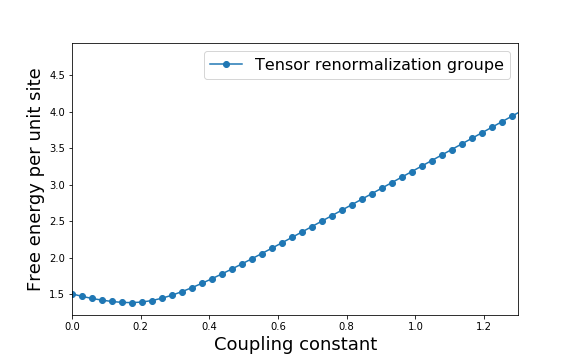
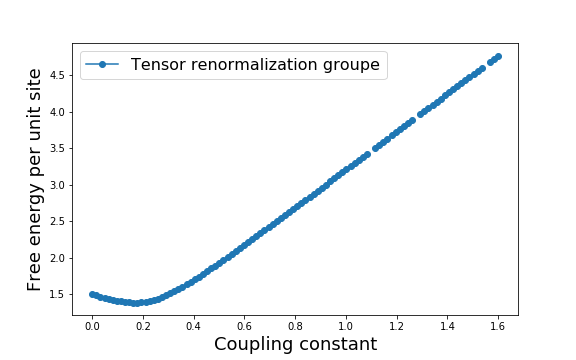
Fix graph

diff --git a/TRG/TRG_Honey_comb.py b/TRG/TRG_Honey_comb.py
@@ -55,7 +55,7 @@ def TRG_3_rank(K, beta , D, Dcut, no_iter):
 if __name__ == "__main__":
 
 
-    B = np.linspace(0,1.6,56)
+    B = np.linspace(0,1.6,100)
     A = np.array([])
     for i in B:
         Z = TRG_3_rank(K=i, beta=2, D=2, Dcut=6, no_iter=3)
@@ -63,7 +63,7 @@ if __name__ == "__main__":
 
     plt.figure(figsize=(8,5))
     plt.plot(B,np.log10(-A),'-o',label='Tensor renormalization groupe')
-    plt.xlim([0,1.3])
+#    plt.xlim([0,1.3])
     plt.legend(fontsize=16)
     plt.xlabel('Coupling constant',fontsize=18)
     plt.ylabel('Free energy per unit site',fontsize=18)
